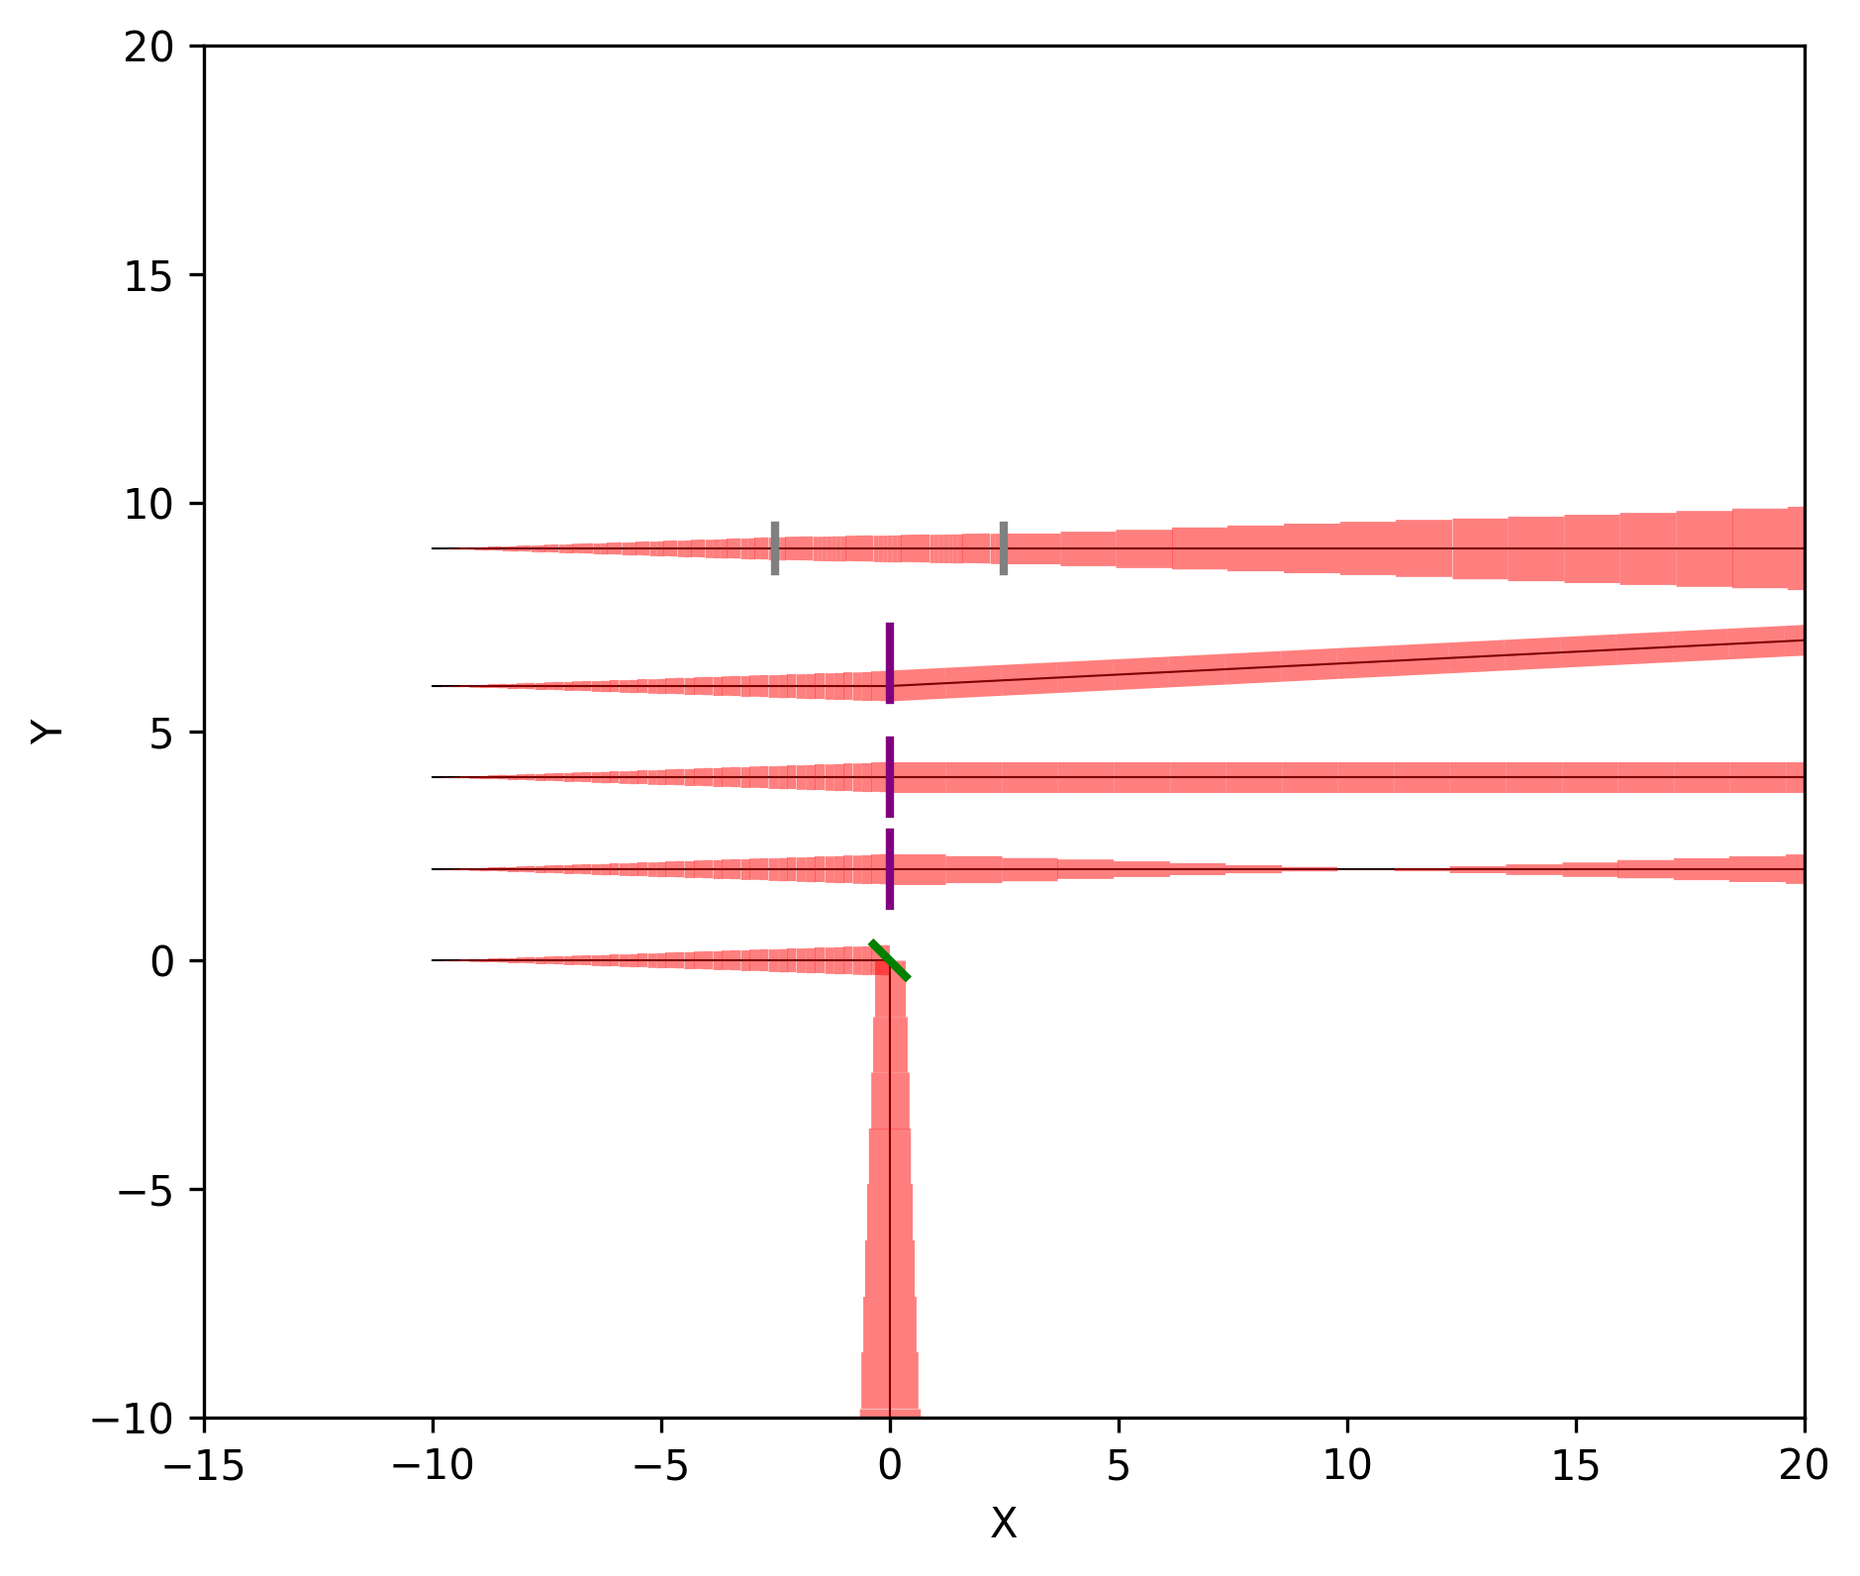
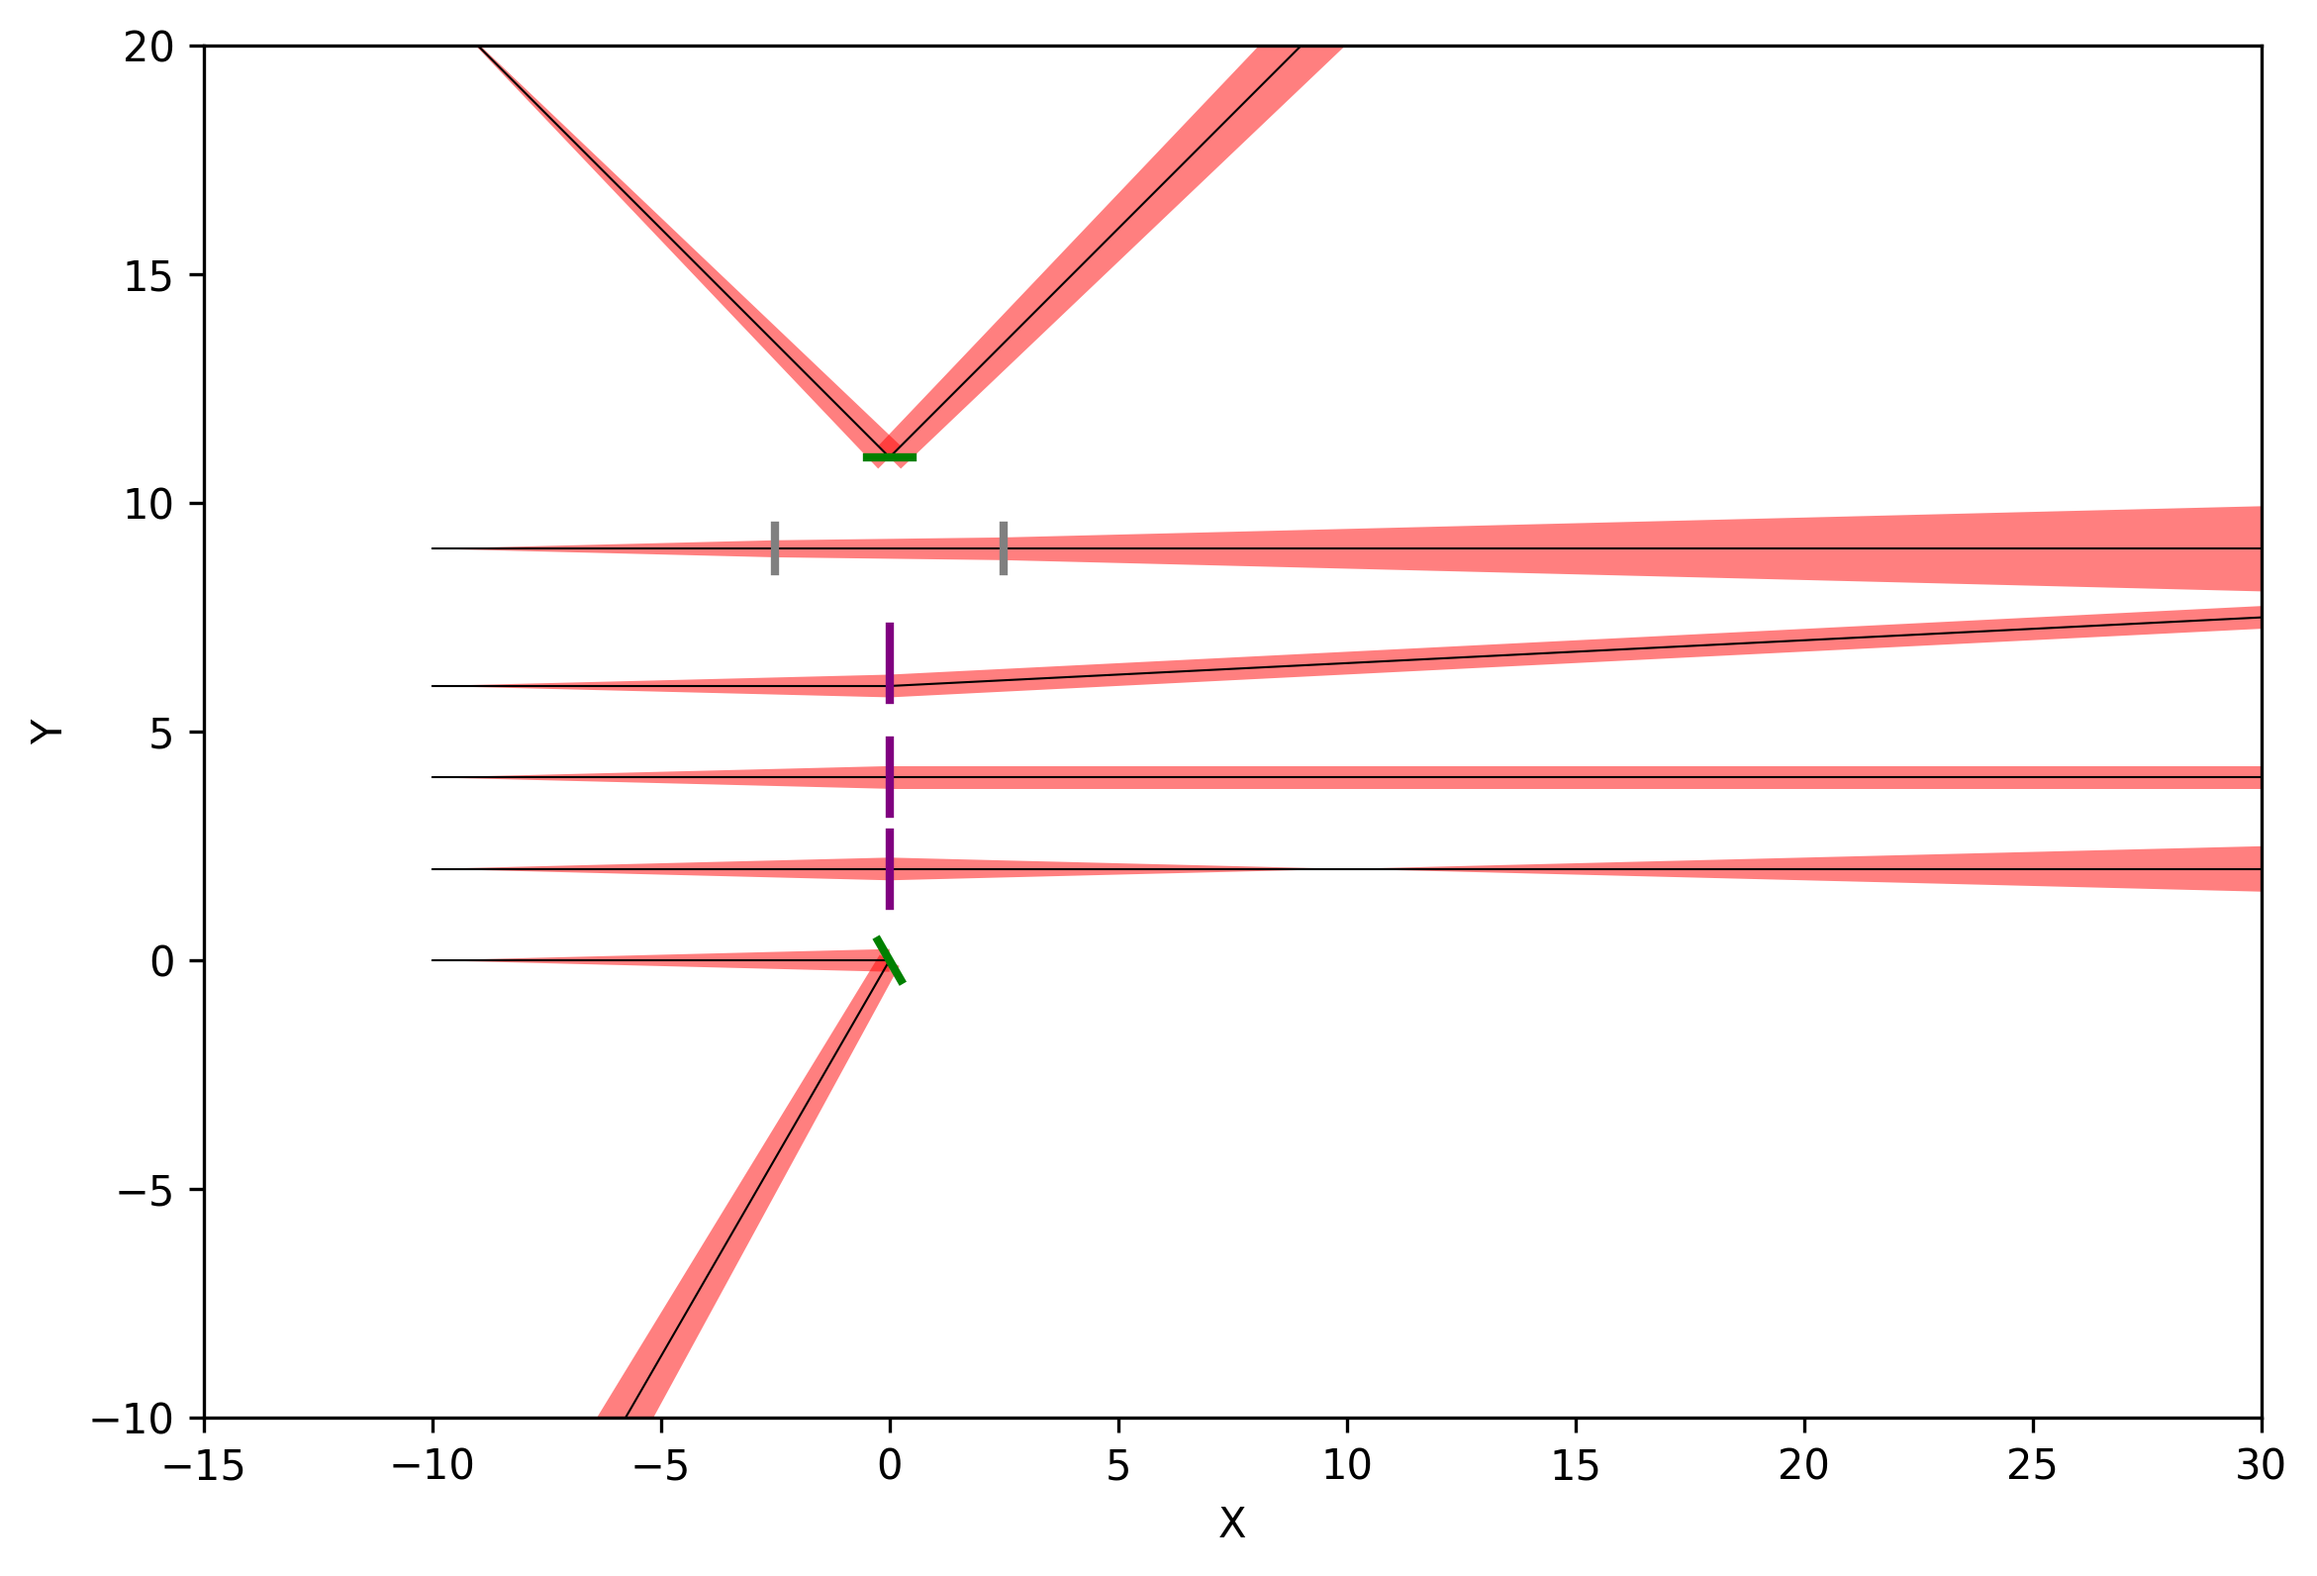
update docs

diff --git a/examples/gaussian_beam.py b/examples/gaussian_beam.py
@@ -50,5 +50,5 @@ table.render(
 
 if __name__ == "__main__":
     # plt.axis("off")
-    # plt.savefig("gaussian_beam.png", dpi=300, bbox_inches="tight")
+    plt.savefig("../docs/gaussian_beam.png", dpi=300, bbox_inches="tight")
     plt.show()

diff --git a/README.md b/README.md
@@ -7,6 +7,7 @@ dedicated to phys students working with freespace optics.
 [![GitHub stars](https://img.shields.io/github/stars/tim4431/optable?style=for-the-badge)]()
 
 ## Example
+**1. Micro Lens Array**
 ```python
 # expsetup.py
 
@@ -67,3 +68,66 @@ if __name__ == "__main__":
 
 **Result**
 ![docs/tilt_MLA.png](docs/tilt_MLA.png)
+
+
+**2. Gaussian beam tracing**
+
+```python
+import numpy as np, sys, matplotlib.pyplot as plt
+
+sys.path.append("../src/")
+from optical_component import *
+from optical_table import OpticalTable
+from component_group import GlassSlab
+
+if __name__ == "__main__":
+    fig, ax0 = plt.subplots(1, 1, figsize=(12, 6))
+
+
+wl = 780e-9
+w0 = 10e-6
+
+
+r0 = [
+    Ray([-10, 0, 0], [1, 0, 0], wavelength=wl, w0=w0),
+    Ray([-10, 2, 0], [1, 0, 0], wavelength=wl, w0=w0),
+    Ray([-10, 4, 0], [1, 0, 0], wavelength=wl, w0=w0),
+    Ray([-10, 6, 0], [1, 0, 0], wavelength=wl, w0=w0),
+    Ray([-10, 9, 0], [1, 0, 0], wavelength=wl, w0=w0),
+    Ray([-10, 21, 0], [1, 0, 0], wavelength=wl, w0=w0).RotZ(-np.pi / 4),
+]
+
+m0 = Mirror([0, 0, 0]).RotZ(np.pi / 6)
+l0 = Lens([0, 2, 0], radius=0.8, focal_length=5)
+l1 = Lens([0, 4, 0], radius=0.8, focal_length=10)
+l2 = Lens([0, 6.5, 0], radius=0.8, focal_length=10)
+slab0 = GlassSlab([0, 9, 0], n1=1, n2=2, thickness=5)
+m1 = Mirror([0, 11, 0]).RotZ(-np.pi / 2)
+
+# Summary, rays, components, monitors
+rays = r0
+components = [m0, l0, l1, l2, slab0, m1]
+monitors = []
+
+table = OpticalTable()
+table.add_components(components)
+table.add_monitors(monitors)
+table.ray_tracing(rays)
+
+# ax0.annotate(mon0.ndata, (mon0.origin[0], mon0.origin[1]), fontsize=15, color="black")
+table.render(
+    ax0,
+    type="Z",
+    gaussian_beam=True,
+    spot_size_scale=1,
+    roi=[-15, 30, -10, 20],
+)
+
+if __name__ == "__main__":
+    # plt.axis("off")
+    plt.savefig("../docs/gaussian_beam.png", dpi=300, bbox_inches="tight")
+    plt.show()
+```
+
+**Result**
+![docs/gaussian_beam.png](docs/gaussian_beam.png)
